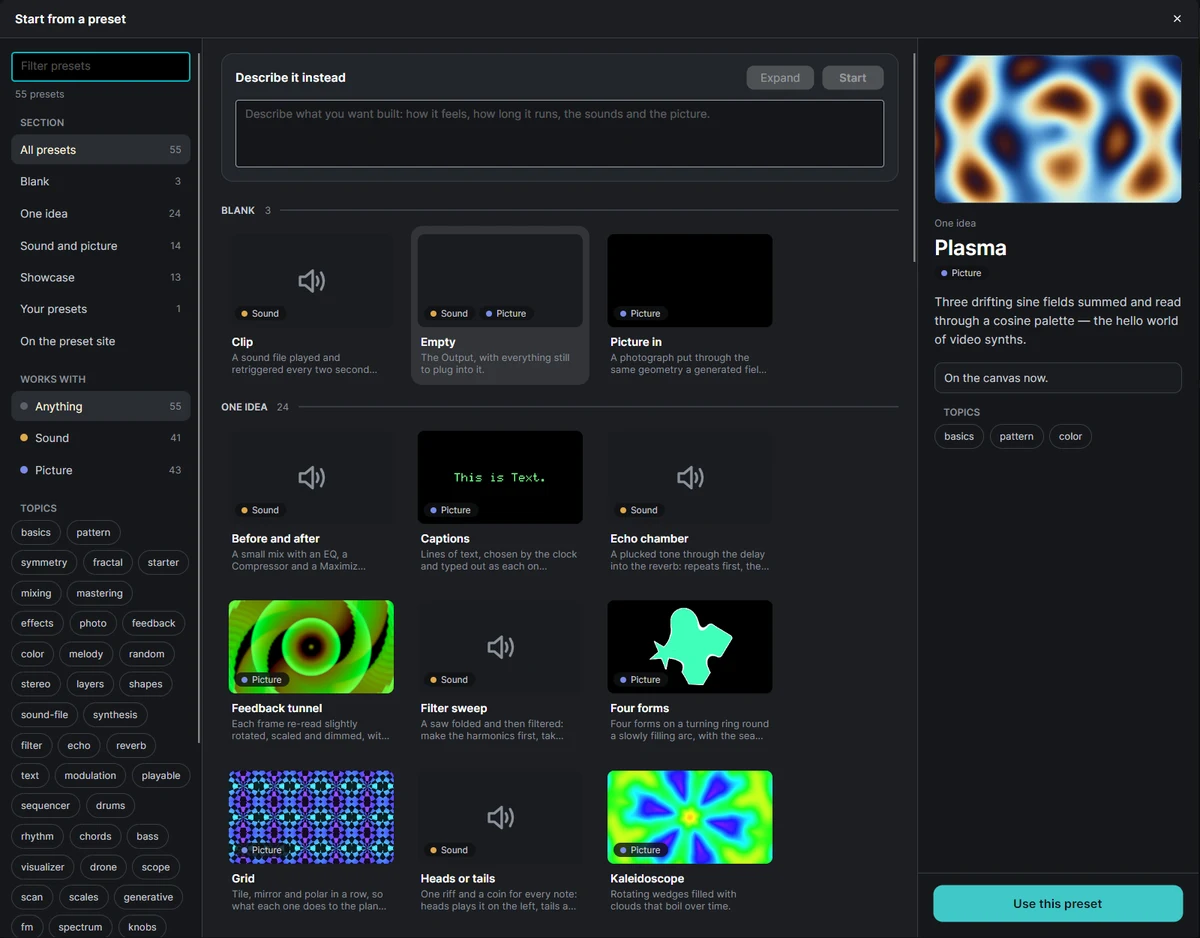
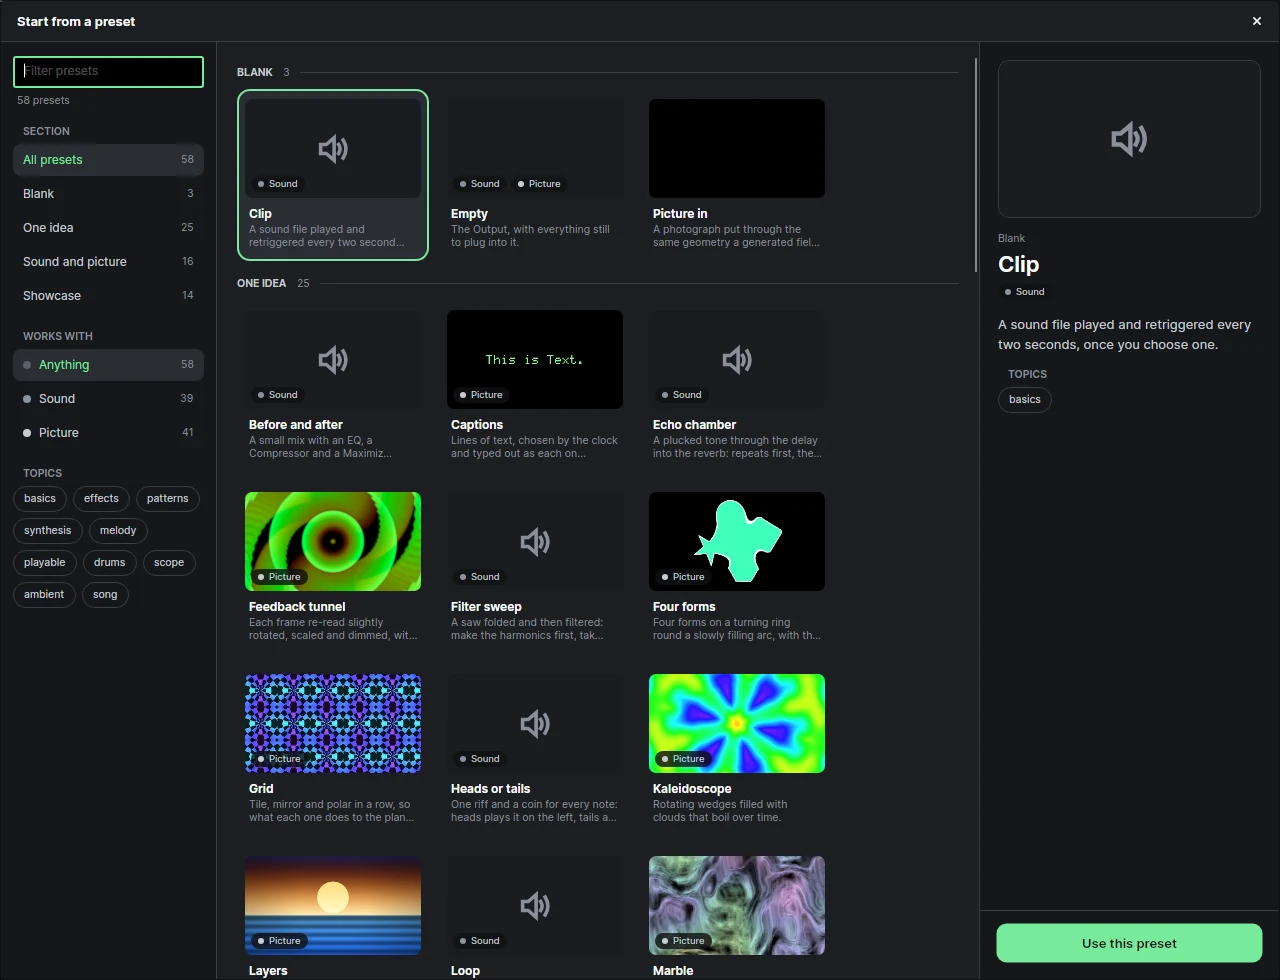
A shot of the preset gallery waits for its pictures, and the site's presets-list is retaken
`shot --gallery` captured the window as soon as the gallery opened, before any
tile in sight had its picture drawn, so every tile came out blank. The gallery
now counts the pictures it is drawing, and the shot waits until that is none.
The site's presets-list is retaken with it, in Phosphor, so no site shot is
stale any more.

Claude-Session: https://claude.ai/code/session_013fHfAKH1j49TKRDSFtLbmw

diff --git a/site/layouts/home.html b/site/layouts/home.html
@@ -451,8 +451,8 @@ color.rgb(r: r, g: g, b: b) |> out.color</code></pre>
         <figure>
           <div class="window">
             <a class="zoom" href="assets/shots/presets-list.webp">
-              <img loading="lazy" src="assets/shots/presets-list.webp" width="1200" height="938"
-                   alt="The preset gallery, Start from a preset, in three columns. On the left, a Filter presets box, the sections All presets, Blank, One idea and more, Works with Sound or Picture, and topics. In the middle, a Describe it instead box, then tiles: BLANK over Clip, Empty and Picture in, and ONE IDEA over Before and after, Captions, Echo chamber and more, each with a frame of what it draws. On the right, Plasma chosen, larger, with its description, its topics and a Use this preset button.">
+              <img loading="lazy" src="assets/shots/presets-list.webp" width="1280" height="980"
+                   alt="The preset gallery, Start from a preset, in three columns. On the left, a Filter presets box, the sections All presets, Blank, One idea and more, Works with Sound or Picture, and topics. In the middle, tiles: BLANK over Clip, Empty and Picture in, and ONE IDEA over Before and after, Captions, Echo chamber and more, each with a frame of what it draws or a speaker for one only heard. On the right, Clip chosen, larger, with its description, its topics and a Use this preset button.">
             </a>
           </div>
         </figure>

diff --git a/src/Flyback.Editor/Gallery/PresetGallery.cs b/src/Flyback.Editor/Gallery/PresetGallery.cs
@@ -39,6 +39,9 @@ internal sealed class PresetGallery(PresetThumbnails thumbnails, IDialog dialog,
     /// <summary>What heads the presets somebody saved, last of all.</summary>
     public const string YoursHeading = "YOUR PRESETS";
 
+    /// <summary>Tiles scrolled into sight whose picture has not arrived yet.</summary>
+    public int Drawing { get; private set; }
+
     /// <summary>What heads the presets the preset site offers, after everything on this machine.</summary>
     public const string SiteHeading = "ON THE PRESET SITE";
 
@@ -182,7 +185,7 @@ internal sealed class PresetGallery(PresetThumbnails thumbnails, IDialog dialog,
     /// first one gets there — unless the run is only picked from, which has no card
     /// and so nothing to show.
     /// </summary>
-    private static void Yours(
+    private void Yours(
         StackPanel gallery,
         YourPresets yours,
         PresetThumbnails thumbnails,
@@ -432,7 +435,7 @@ internal sealed class PresetGallery(PresetThumbnails thumbnails, IDialog dialog,
         };
     }
 
-    private static PresetCard Tile(
+    private PresetCard Tile(
         PatchPreset preset,
         string section,
         PresetThumbnails thumbnails,
@@ -551,7 +554,21 @@ internal sealed class PresetGallery(PresetThumbnails thumbnails, IDialog dialog,
             if (tile.Bounds.Width <= 0 || !e.EffectiveViewport.Intersects(new Rect(tile.Bounds.Size))) return;
 
             tile.EffectiveViewportChanged -= Seen;
-            _ = Fill(card, () => thumbnails.Of(preset, closing), choice, closing);
+            _ = Counted(Fill(card, () => thumbnails.Of(preset, closing), choice, closing));
+        }
+    }
+
+    private async Task Counted(Task filling)
+    {
+        Drawing++;
+
+        try
+        {
+            await filling;
+        }
+        finally
+        {
+            Drawing--;
         }
     }
 

diff --git a/tests/Flyback.Editor.Tests/Gallery/PresetListTests.cs b/tests/Flyback.Editor.Tests/Gallery/PresetListTests.cs
@@ -378,6 +378,26 @@ public class PresetListTests : EditorTest
         frame.PixelSize.Width.ShouldBe(PresetThumbnails.Width);
     }
 
+    /// <summary>A shot of the gallery waits on this count, so it must reach nothing only once the tiles in sight are drawn.</summary>
+    [AvaloniaFact]
+    public void The_gallery_counts_the_pictures_in_sight_until_they_are_drawn()
+    {
+        var window = Open();
+        var gallery = Service<PresetGallery>(window);
+
+        OpenGallery(window);
+
+        gallery.Drawing.ShouldBeGreaterThan(0);
+
+        UntilDrawn(window, () => gallery.Drawing == 0);
+
+        var image = All<Image>(Tile(window, "Feedback tunnel")).Single();
+
+        UntilDrawn(window, () => gallery.Drawing == 0);
+
+        image.Source.ShouldNotBeNull();
+    }
+
     /// <summary>
     /// A preset with no picture in it has no frame to show: one that is only heard
     /// shows a speaker, and one with nothing wired yet leaves its tile bare.

diff --git a/src/Flyback.Editor.Desktop/Shots/Shot.cs b/src/Flyback.Editor.Desktop/Shots/Shot.cs
@@ -135,6 +135,10 @@ internal static class Shot
             {
                 _ = provider.GetRequiredService<PresetSlot>().ShowGallery();
                 Settle(window);
+
+                var gallery = provider.GetRequiredService<PresetGallery>();
+                await Until(() => gallery.Drawing == 0, "the gallery's pictures", window);
+                Settle(window);
             }
 
             // Read before the capture: a window that settles again fits the view again.

diff --git a/.claude/skills/site-screenshots/SKILL.md b/.claude/skills/site-screenshots/SKILL.md
@@ -60,7 +60,7 @@ A preset with sound plays through the user's speakers while it is captured, for 
 - Call `SetProcessDPIAware()` in the PowerShell script before anything else. Without it the script sees the window at its scaled-down 2062x1118 size and `PrintWindow` cuts off the right and the bottom; with it, the maximized window is 2578x1398 with a 2560x1380 frame at (9, 9), which is what is cropped.
 - Posted clicks are in **client** coordinates, physical pixels, and the client area starts under the native title bar: the toolbar's first button is about (35, 30), Pause about (589, 30), Rewind about (643, 30), Settings about (833, 30) and `{ }` about (398, 30). From a 1600-wide crop, client is about (x x 1.6, y x 1.6 - 29).
 - `WM_MOUSEWHEEL` takes screen coordinates, so turn a client point into one with `ClientToScreen` before posting it; a negative notch count zooms in.
-- A dropdown is a separate top-level popup window of the same process, so `PrintWindow` on the main handle misses it. `EnumWindows` for the process's other visible windows, `PrintWindow` each, and draw it onto the main capture at its screen offset (how presets-list.webp was made, list open over Kaleidoscope).
+- A dropdown is a separate top-level popup window of the same process, so `PrintWindow` on the main handle misses it. `EnumWindows` for the process's other visible windows, `PrintWindow` each, and draw it onto the main capture at its screen offset (presets-list.webp no longer needs this: it is `flyback-cli shot <a patch that is not a preset> --gallery --size 1360x1060`, cropped to the dialog at (40, 40)-(1320, 1020)).
 - The module list opens under the real mouse pointer, not where a posted click lands, and a posted right-click often opens nothing. Send Space instead, and pan the canvas (posted middle-drag) to put the patch beside `GetCursorPos` just before it, in one script; the user's mouse moves between separate ones.
 - A `.fbks` opens in the text view; the `{ }` toolbar button switches to the canvas, since a sent F2 did not.
 - A posted `WM_MOUSEWHEEL` does not scroll the inspector, so a row below the fold is checked with a headless `EditorTest` instead (see `ExpressionInspectorTests`).

diff --git a/.claude/skills/site-screenshots/stale.md b/.claude/skills/site-screenshots/stale.md
@@ -3,4 +3,3 @@
 Shots in `site/static/assets/shots` that no longer match the app and need the real window to retake, waiting for a retake session. One line per shot: the file, where the site uses it, what no longer matches, the date it went stale. A shot comes off the list in the commit that retakes it.
 
 
-- presets-list (index.html): drawn before the editor's own look. `shot --gallery` draws the gallery headless but leaves every preset's picture empty, so it still needs the real window. 2026-11-05.

diff --git a/CHANGELOG.md b/CHANGELOG.md
@@ -18,6 +18,8 @@
 
 ### Command line
 
+- `flyback-cli shot --gallery` waits for the preset pictures in sight before it draws, rather than leaving their tiles blank.
+
 ### Installing
 
 ### Performance
